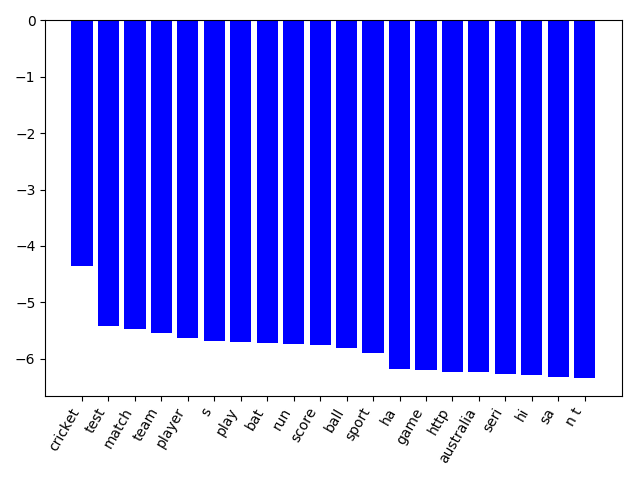
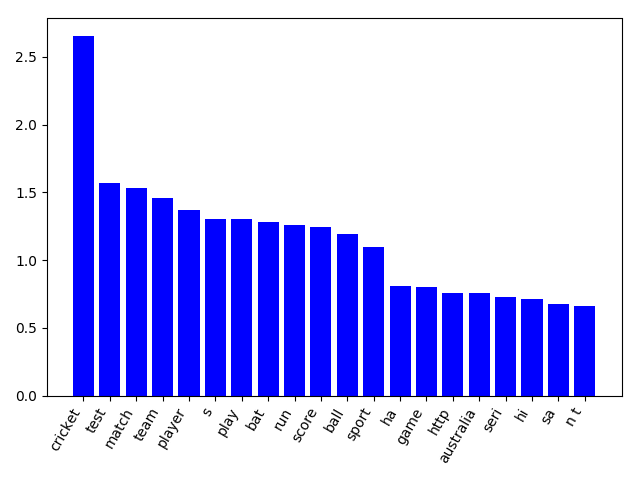
plots: make the importance positive.
Refactored: yes.

diff --git a/src/explore_data.py b/src/explore_data.py
@@ -152,7 +152,7 @@ def plot_coefficients(classifier, dim, feature_names, label_encoder, top_feature
     plt.figure()
     # colors = ['red' if c < 0 else 'blue' for c in coef[top_coefficients]]
     colors = ['blue']
-    plt.bar(np.arange(top_features), coef[top_coefficients], color=colors)
+    plt.bar(np.arange(top_features), (7 + coef[top_coefficients]), color=colors)
     feature_names = np.array(feature_names)
     plt.xticks(np.arange(0, top_features), feature_names[top_coefficients], rotation=60, ha='right')
     print(f'{list(zip(feature_names[top_coefficients], coef[top_coefficients]))}')
